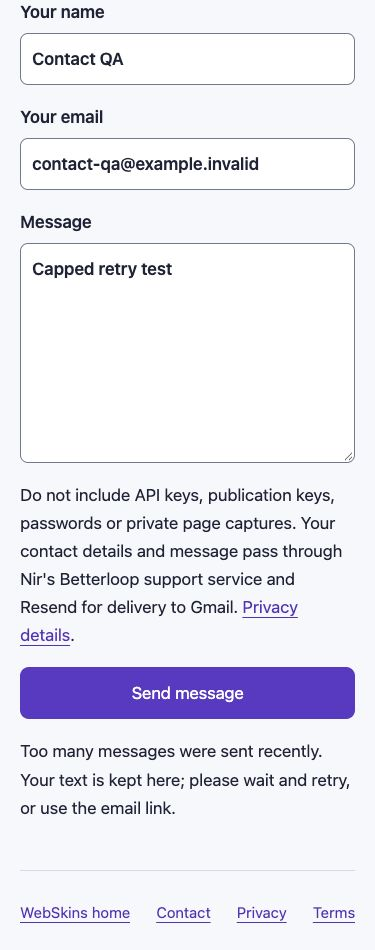
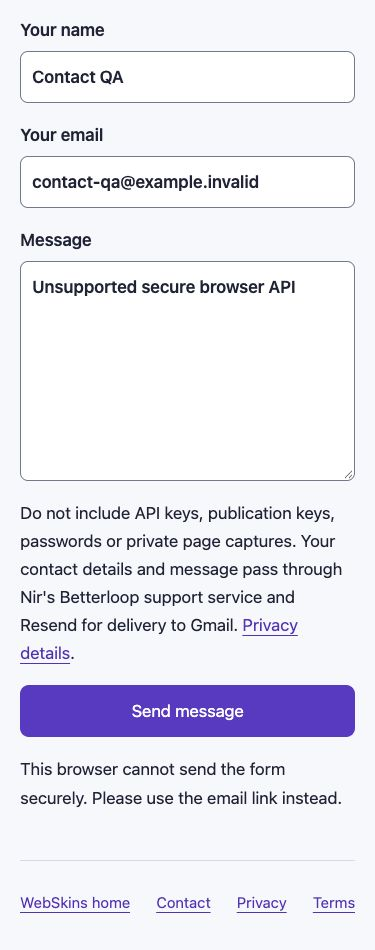
Accept live contact notification and website legal cost pages

diff --git a/READINESS.md b/READINESS.md
@@ -36,6 +36,8 @@ Every row serves [GOAL.md](GOAL.md) and portfolio PT07. Done is verified, cut, o
 
 ## Log (last10)
 
+-2026-10-31 - Owned website Contact/Terms/Privacy and Free/Anthropic-BYOK labels are live. Backend-only release, exact source/health/backup,375/1440 UI and actual contact GmailINBOX/Reply-To pass. Installed1.0.5, separate1.0.6 candidate, Store boundary, marketplace data and existing configuration retained. [Acceptance](readiness/contact-email-costs.md).
+
 -2026-10-30 - All-three website analytics is live/public-accepted at375/1440 on the existing image/data volume. Matching free dashboard projects and saved manual-only Google verified; no extension/package/Store or private credential change. [Acceptance](qa/analytics.md).
 
 -2026-10-29 - Version-aware API privacy is live/public-accepted at375/1440. Separate1.0.6 popup/package/workflow gates pass and existing pending Store guide points to replacement ZIP; installed1.0.5 remains unchanged. No buildable row remains; Store/hosted-CI owner and review waits retained.
@@ -47,5 +49,5 @@ Every row serves [GOAL.md](GOAL.md) and portfolio PT07. Done is verified, cut, o
 
 | ID | Flow / gate | Status | Evidence / next action |
 |---|---|---|---|
-| E1 | Discover Contact, Privacy and Terms with clear Free/BYOK costs | building | Website-only source; installed extension and Store candidate unchanged; actual375/1440 QA next |
-| E2 | Contact form emails the owner with a safe reply path and truthful failures | building | Shared existing Betterloop mail relay is being prepared; no new key/account; mocked UI first, real delivery only after bounded coordinator approval |
+| E1 | Discover Contact, Privacy and Terms with clear Free/BYOK costs | verified | Website-only backend release is SUCCESS; exact live assets/health/backup and actual four-page375/1440 UI pass. [Acceptance](readiness/contact-email-costs.md); installed/Store packages unchanged |
+| E2 | Contact form emails the owner with a safe reply path and truthful failures | verified | Actual phone form200 → GmailINBOX with exact visitor Reply-To; mock375/1440 failure/retry/idempotency/edits/no-JS checks pass. [Acceptance](readiness/contact-email-costs.md); no new key/account |

diff --git a/readiness/contact-email-costs.md b/readiness/contact-email-costs.md
@@ -8,4 +8,4 @@ Contact submits through Nir's existing Betterloop general support relay and Rese
 
 Send starts disabled until its listener is ready. The explicit POST fallback is a safe405 without reflecting fields; no-JavaScript guidance links direct email. Actual375/1440 mocked-transport checks verify validation,503/429 recovery, stable retry key, duplicate prevention and preservation of newer edits. Success means provider acceptance, not inbox placement.
 
-Local proof: Node24 [HTTP route/assets/privacy boundaries](../qa/contact-cost-http.log), [four-page375/1440 UI](../qa/contact-cost-ui.log), [form/no-JS checks](../qa/contact-cost-form.log). Screenshots are under qa/contact-cost-*.jpg. Existing relay release, backend-only production rollout and separately approved genuine delivery remain with the coordinator.
+Local proof: Node24 [HTTP route/assets/privacy boundaries](../qa/contact-cost-http.log), [four-page375/1440 UI](../qa/contact-cost-ui.log), [form/no-JS checks](../qa/contact-cost-form.log). Screenshots are under qa/contact-cost-*.jpg. Backend-only deployment ac6489bb is SUCCESS with the existing/data mount and tracked deployment contract. Exact public assets and health/current backup pass; actual public four-page375/1440 UI passes. [Release](../qa/contact-cost-release.log). The genuine phone form returned200 and its notification arrived GmailINBOX with the correct synthetic visitor Reply-To. [Coordinator mail proof](/Users/nirfeinstein/Documents/ChatGPT/almost%20finished%20projects%20+%20marketing/artifacts/contact-delivery.md). The shared owner mailbox reply path is independently accepted; no separate WebSkins visitor reply was sent. No key, provider, extension/Store package or data configuration changed. Compatible rollback keeps the current/data volume and variables; restore the prior accepted app image without restoring an older database.
